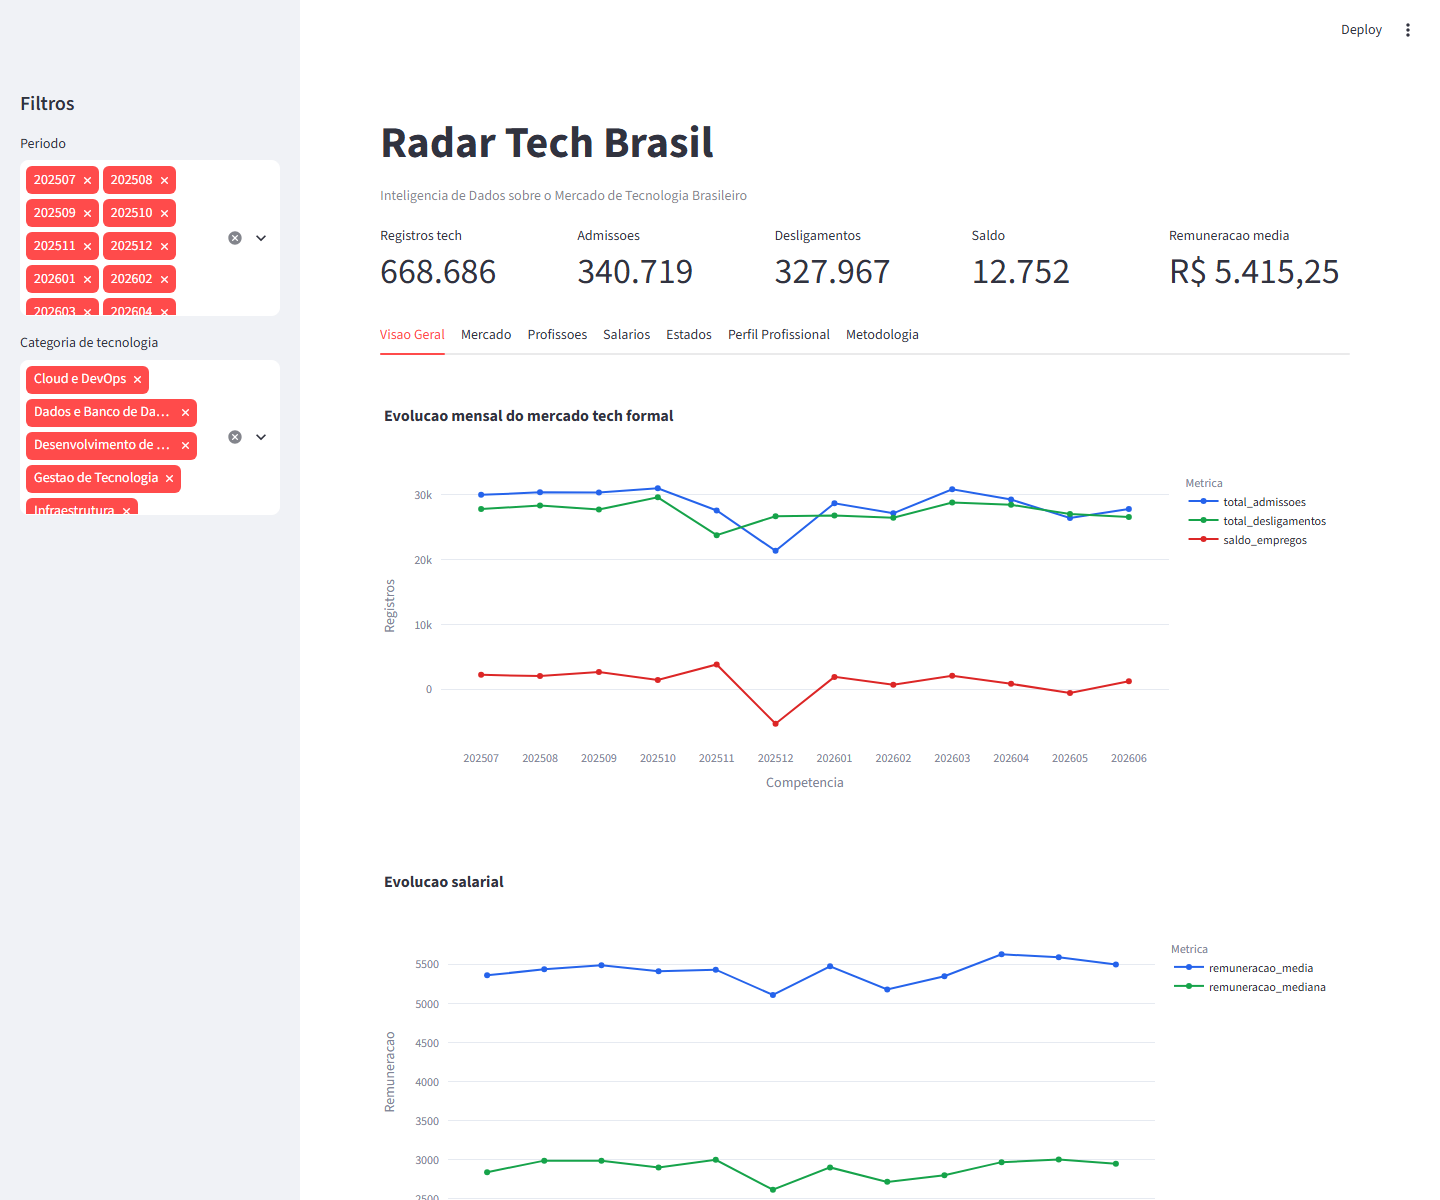
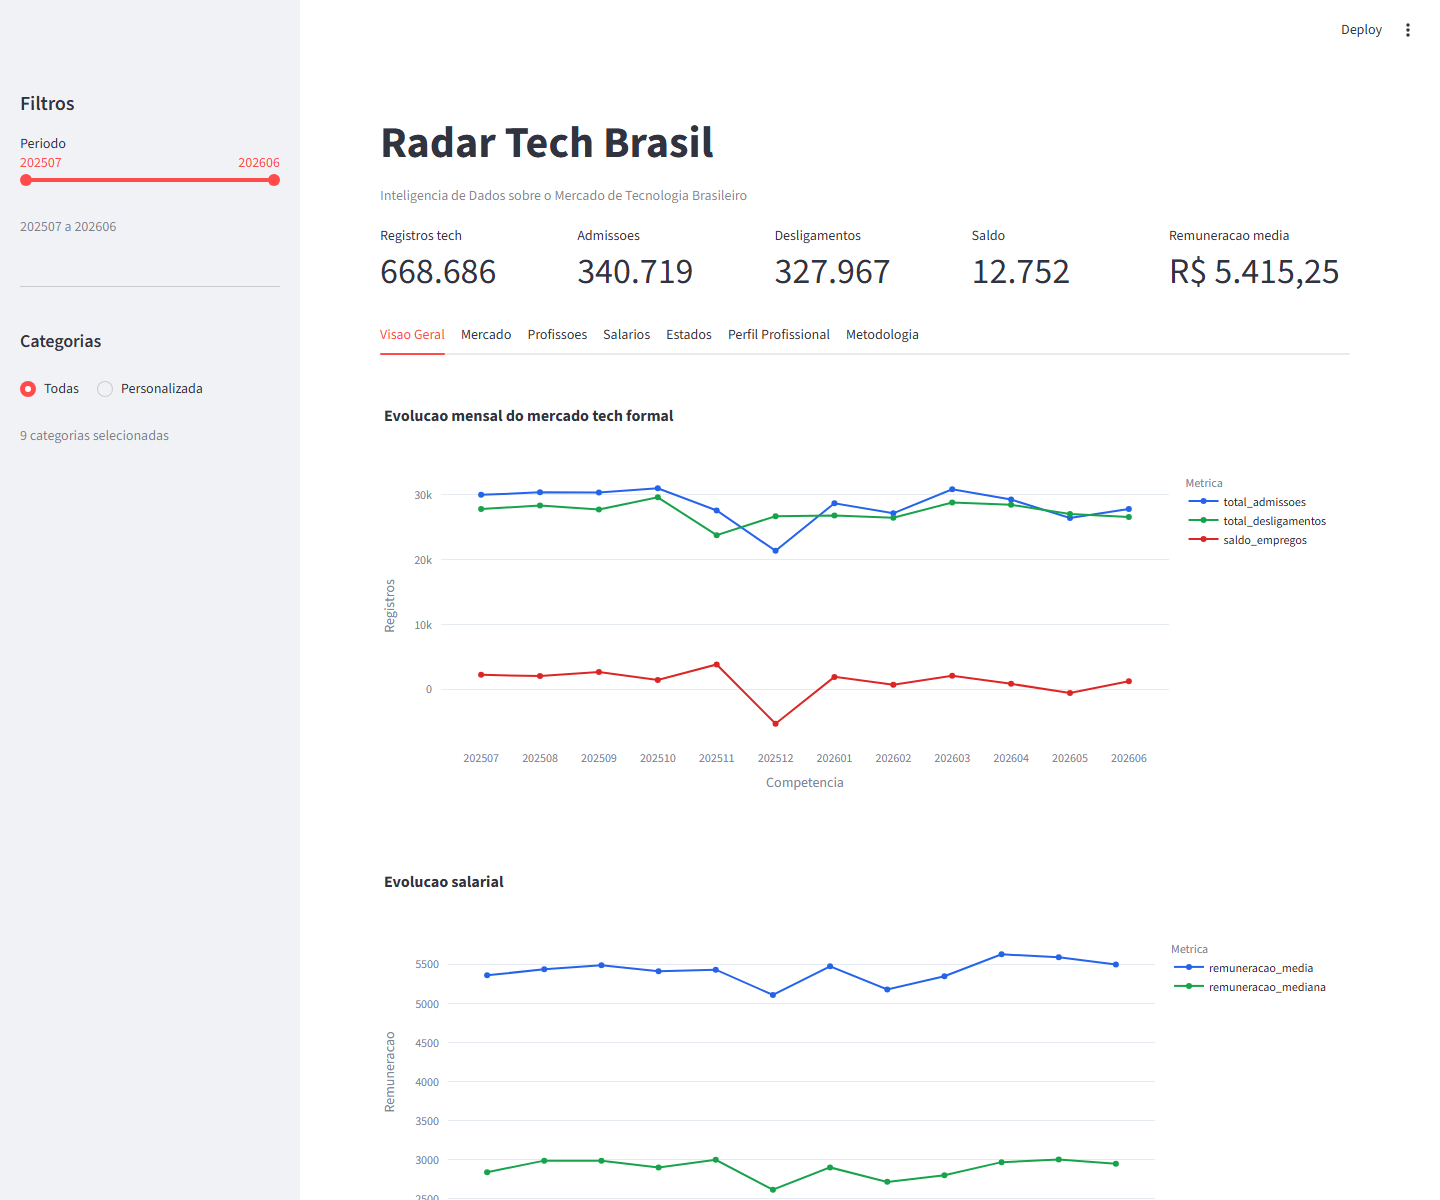
fix: improve dashboard filter controls

Changed region(s): [[0.0, 0.1233, 0.1875, 0.4317]]

diff --git a/dashboard/app.py b/dashboard/app.py
@@ -52,12 +52,39 @@ st.caption("Inteligencia de Dados sobre o Mercado de Tecnologia Brasileiro")
 
 with st.sidebar:
     st.header("Filtros")
-    selected_competences = st.multiselect("Periodo", competences, default=competences)
-    selected_categories = st.multiselect(
-        "Categoria de tecnologia",
-        categories,
-        default=categories,
+    selected_period = st.select_slider(
+        "Periodo",
+        options=competences,
+        value=(competences[0], competences[-1]),
     )
+    start_period, end_period = selected_period
+    selected_competences = [
+        competence for competence in competences if start_period <= competence <= end_period
+    ]
+
+    st.caption(f"{selected_competences[0]} a {selected_competences[-1]}")
+
+    st.divider()
+    st.subheader("Categorias")
+
+    category_action = st.radio(
+        "Selecao",
+        ["Todas", "Personalizada"],
+        horizontal=True,
+        label_visibility="collapsed",
+    )
+
+    if category_action == "Todas":
+        selected_categories = categories
+        st.caption(f"{len(categories)} categorias selecionadas")
+    else:
+        selected_categories = []
+        for category in categories:
+            if st.checkbox(category, value=True, key=f"category_{category}"):
+                selected_categories.append(category)
+
+        if not selected_categories:
+            st.warning("Selecione pelo menos uma categoria.")
 
 filtered_overview = overview[overview["competencia"].isin(selected_competences)]
 filtered_category = by_category[
